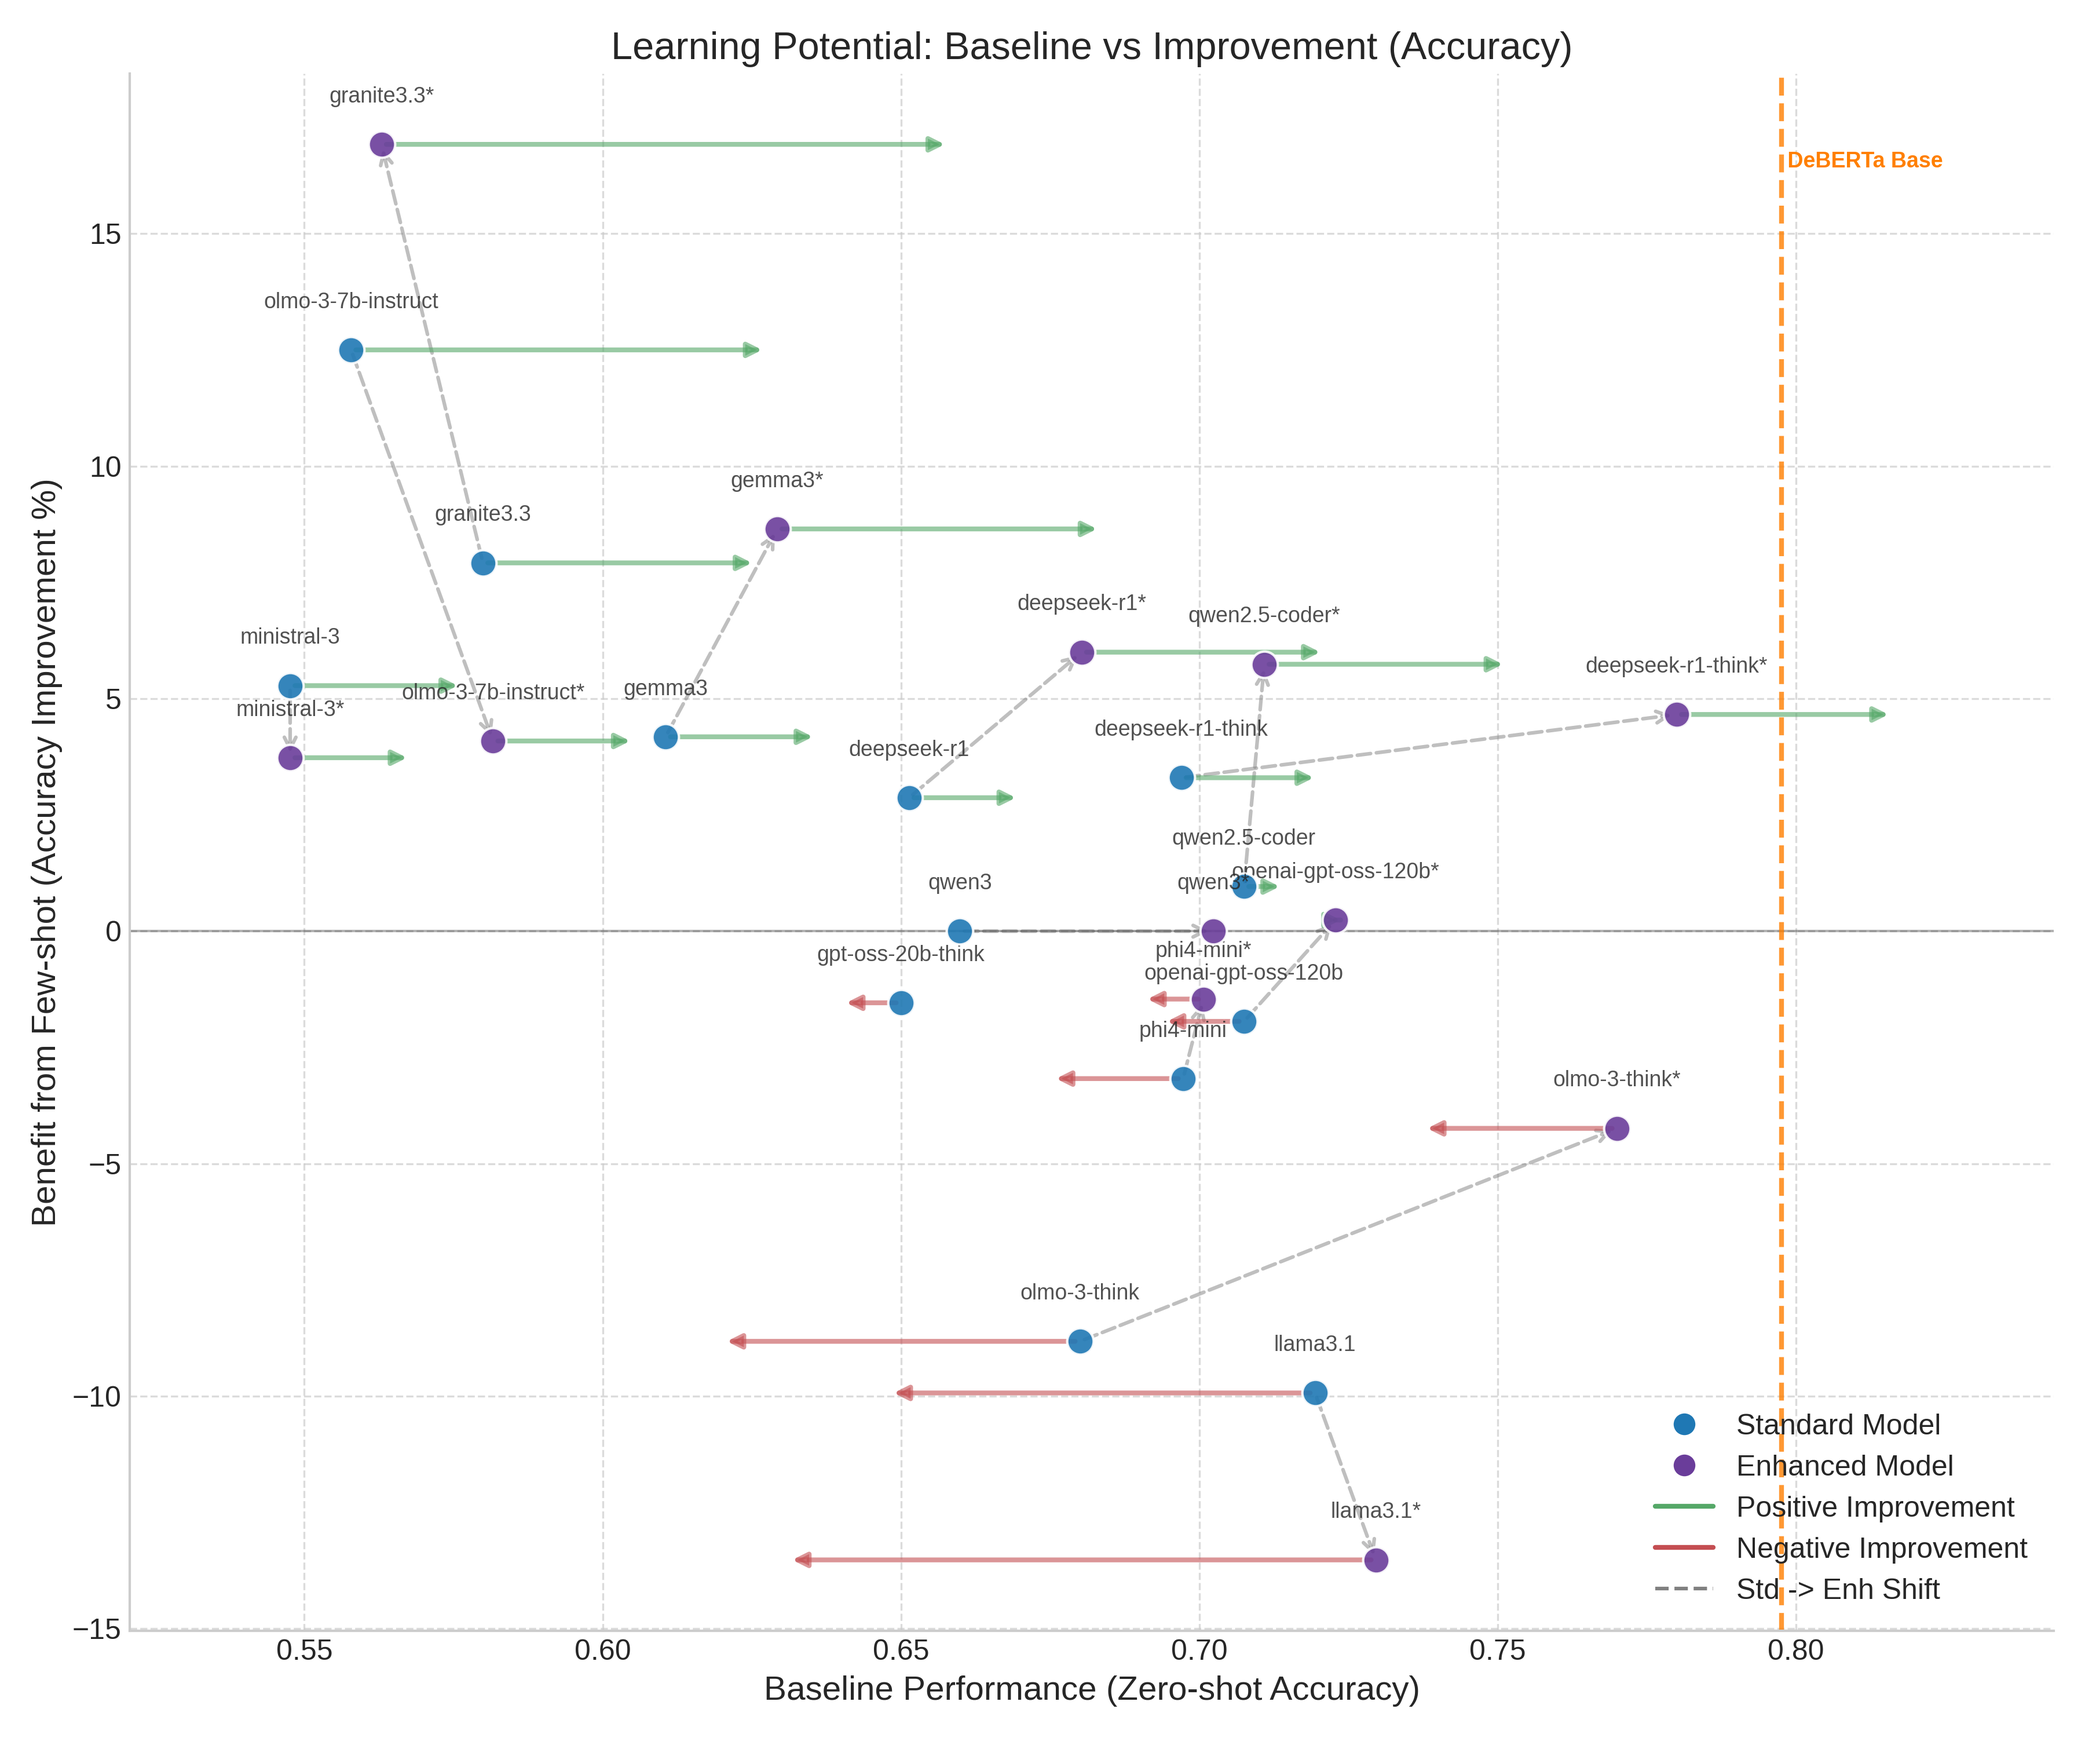
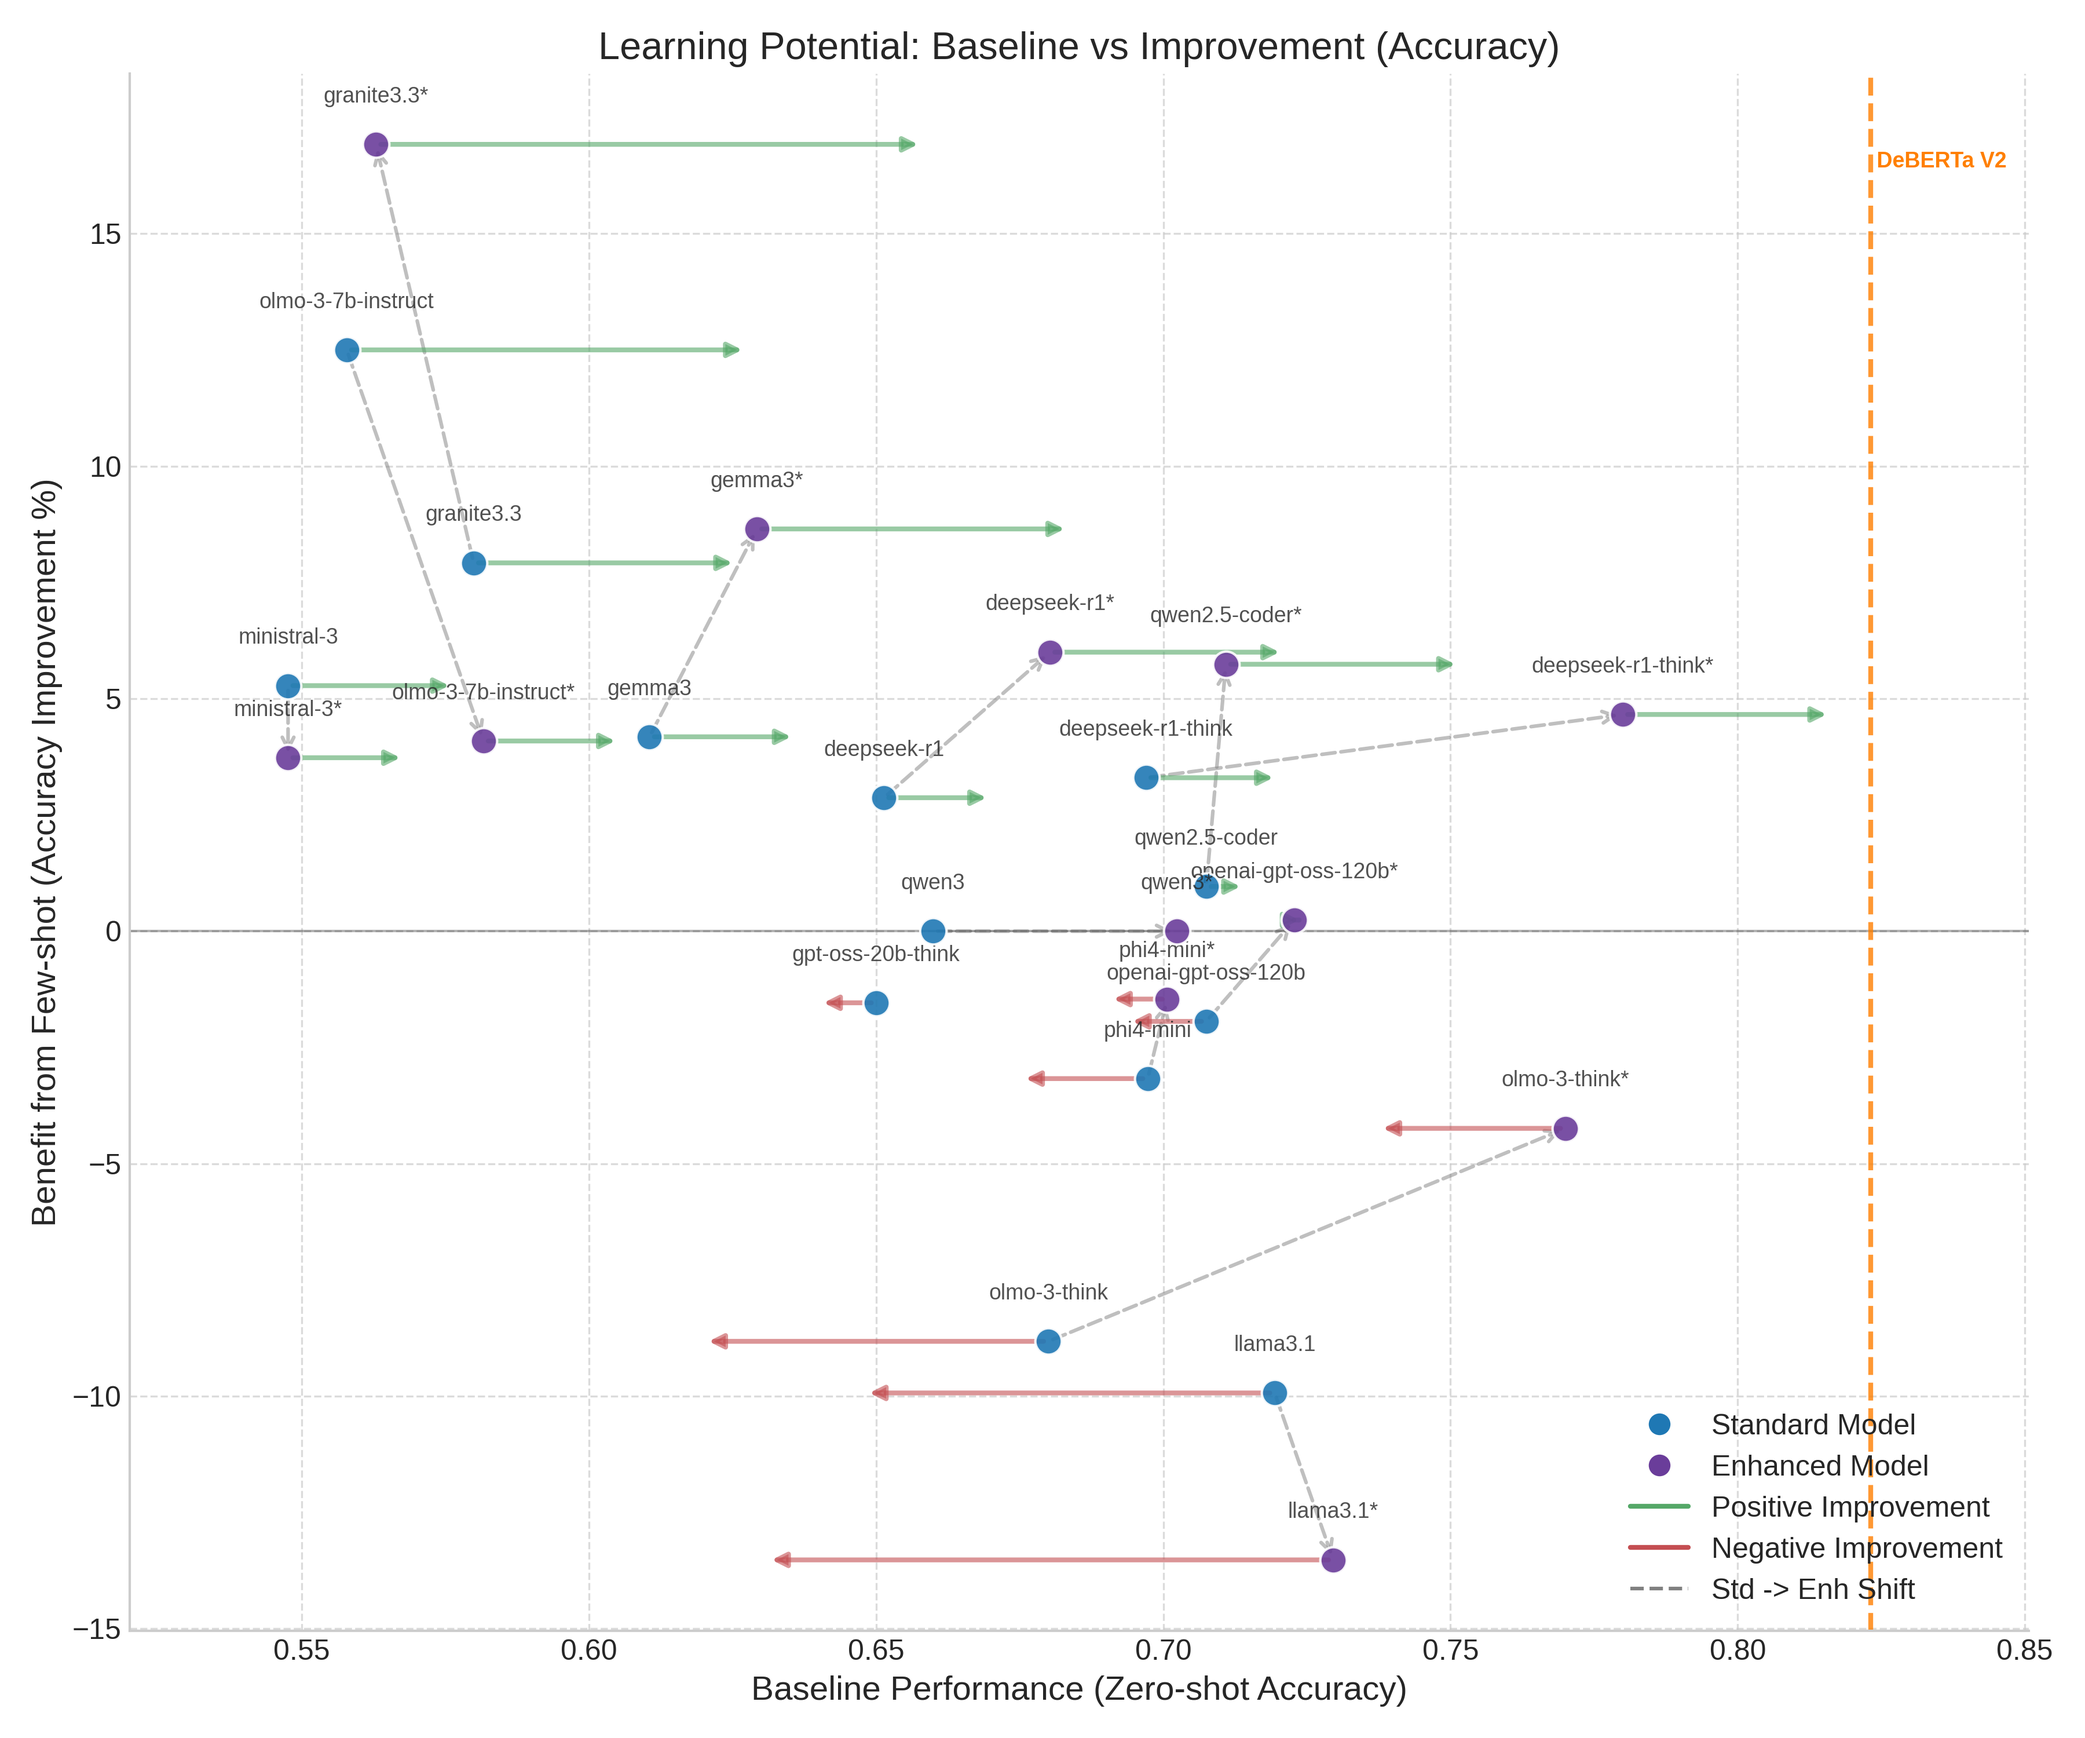
Fix some minor issues in the plotting functions to correctly handle the correct version of deberta

diff --git a/scripts/plot_results.py b/scripts/plot_results.py
@@ -87,7 +87,7 @@ def plot_grouped_bars(df: pd.DataFrame, metric_prefix: str, title: str, xlabel: 
     for i, (model_name, row) in enumerate(grouped_df.iterrows()):
         # Determine colors for this model
         # Special cases for DeBERTa base and SmolLM
-        is_deberta_base = model_name == 'deberta-finetune'
+        is_deberta_base = 'deberta-finetune' in model_name
         is_smollm = 'smollm' in model_name
         
         # Standard 0-shot
@@ -305,7 +305,7 @@ def plot_learning_potential(df: pd.DataFrame, output_dir: Path):
             label += '*'
         ax.text(row['zero_accuracy'], row['accuracy_impr_pct'] + 0.8, label, fontsize=9, ha='center', va='bottom', alpha=0.8)
 
-    # Connect Standard to Enhanced (New feature)
+    # Connect Standard to Enhanced
     # Group by base_name
     for base_name, group in plot_df.groupby('base_name'):
         if len(group) == 2:
@@ -323,8 +323,11 @@ def plot_learning_potential(df: pd.DataFrame, output_dir: Path):
     # Set x-axis limits
     all_scores = pd.concat([plot_df['zero_accuracy'], plot_df['five_accuracy']])
     
-    # Check for DeBERTa to include in limits
-    deberta_row = df[df['model'].str.contains('deberta', case=False)]
+    # Check for DeBERTa to include in limits (Prefer version 2)
+    deberta_row = df[df['model'] == 'deberta-finetune-2']
+    if deberta_row.empty:
+        deberta_row = df[df['model'] == 'deberta-finetune']
+        
     if not deberta_row.empty:
          val = deberta_row.iloc[0]['zero_accuracy']
          if pd.notna(val):
@@ -343,10 +346,13 @@ def plot_learning_potential(df: pd.DataFrame, output_dir: Path):
     # Add DeBERTa vertical line
     if not deberta_row.empty:
         deberta_val = deberta_row.iloc[0]['zero_accuracy']
+        deberta_name = deberta_row.iloc[0]['model']
+        label_text = ' DeBERTa V2' if '2' in deberta_name else ' DeBERTa Base'
+        
         if pd.notna(deberta_val):
-            ax.axvline(deberta_val, color=c_deberta, linestyle='--', linewidth=2, alpha=0.8, label='DeBERTa Base')
+            ax.axvline(deberta_val, color=c_deberta, linestyle='--', linewidth=2, alpha=0.8, label=label_text.strip())
             ylim = ax.get_ylim()
-            ax.text(deberta_val, ylim[1] - (ylim[1]-ylim[0])*0.05, ' DeBERTa Base', color=c_deberta, fontweight='bold', ha='left', va='top', fontsize=9)
+            ax.text(deberta_val, ylim[1] - (ylim[1]-ylim[0])*0.05, label_text, color=c_deberta, fontweight='bold', ha='left', va='top', fontsize=9)
     
     # Custom Legend
     from matplotlib.lines import Line2D
@@ -431,8 +437,11 @@ def plot_learning_potential_spearman(df: pd.DataFrame, output_dir: Path):
     # Set x-axis limits
     all_scores = pd.concat([plot_df['zero_spearman'], plot_df['five_spearman']])
     
-    # Check for DeBERTa to include in limits
-    deberta_row = df[df['model'].str.contains('deberta', case=False)]
+    # Check for DeBERTa to include in limits (Prefer version 2)
+    deberta_row = df[df['model'] == 'deberta-finetune-2']
+    if deberta_row.empty:
+        deberta_row = df[df['model'] == 'deberta-finetune']
+
     if not deberta_row.empty:
          val = deberta_row.iloc[0]['zero_spearman']
          if pd.notna(val):
@@ -451,10 +460,13 @@ def plot_learning_potential_spearman(df: pd.DataFrame, output_dir: Path):
     # Add DeBERTa vertical line
     if not deberta_row.empty:
         deberta_val = deberta_row.iloc[0]['zero_spearman']
+        deberta_name = deberta_row.iloc[0]['model']
+        label_text = ' DeBERTa V2' if '2' in deberta_name else ' DeBERTa Base'
+        
         if pd.notna(deberta_val):
-            ax.axvline(deberta_val, color=c_deberta, linestyle='--', linewidth=2, alpha=0.8, label='DeBERTa Base')
+            ax.axvline(deberta_val, color=c_deberta, linestyle='--', linewidth=2, alpha=0.8, label=label_text.strip())
             ylim = ax.get_ylim()
-            ax.text(deberta_val, ylim[1] - (ylim[1]-ylim[0])*0.05, ' DeBERTa Base', color=c_deberta, fontweight='bold', ha='left', va='top', fontsize=9)
+            ax.text(deberta_val, ylim[1] - (ylim[1]-ylim[0])*0.05, label_text, color=c_deberta, fontweight='bold', ha='left', va='top', fontsize=9)
     
     # Custom Legend
     from matplotlib.lines import Line2D
